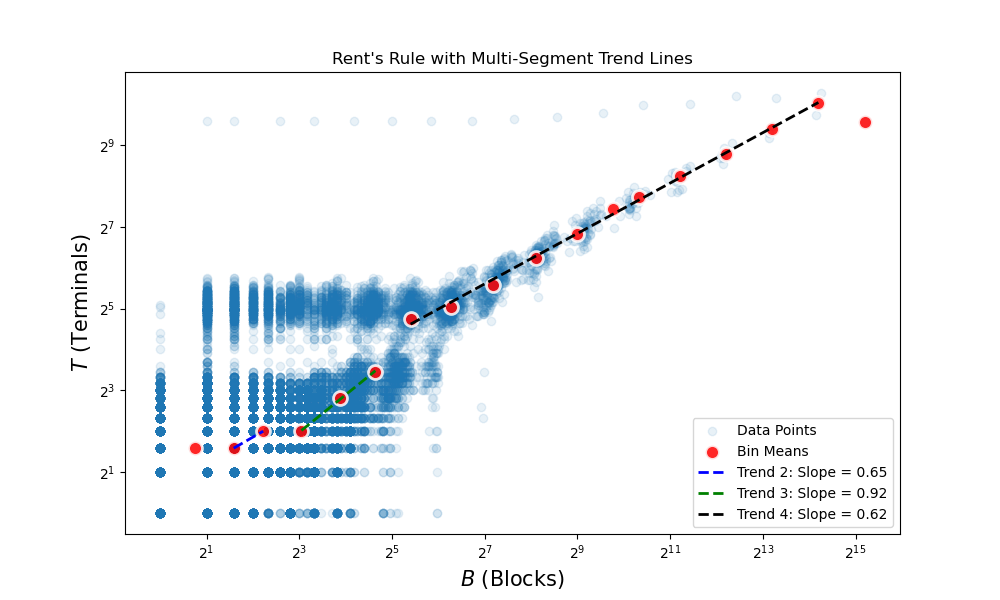
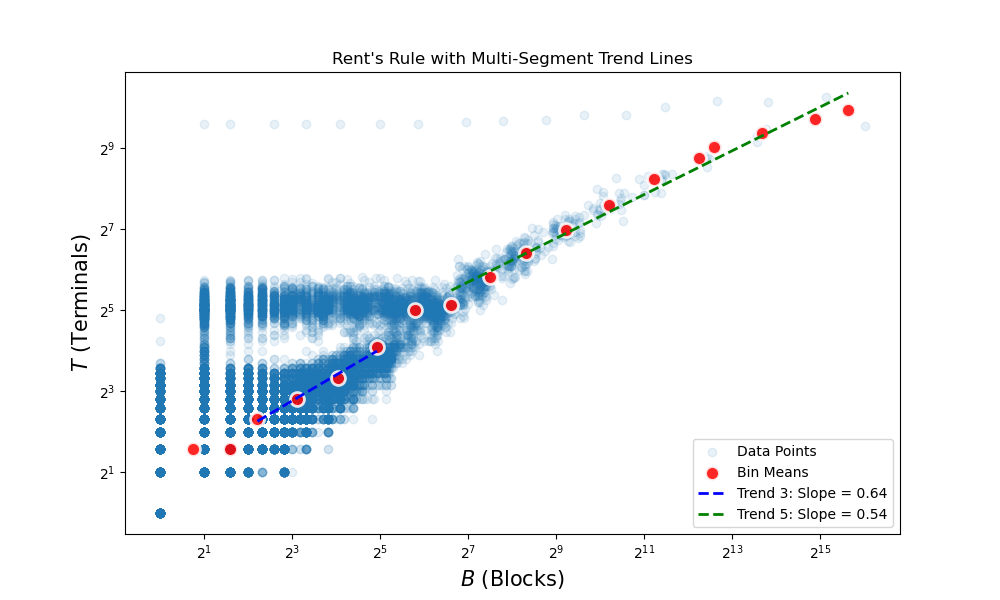
segment figure

diff --git a/src/rent2viz_seg.py b/src/rent2viz_seg.py
@@ -11,7 +11,7 @@ def detect_segments(data):
     mean_slope = np.mean(slopes)
 
     # Identify transition points: when slope deviates significantly from the mean
-    transition_indices = np.where(np.abs(slopes - mean_slope) > 0.5)[0] + 1  # +1 to get the right-side index
+    transition_indices = np.where(np.abs(slopes - mean_slope) > 0.35)[0] + 1  # +1 to get the right-side index
 
     # Ensure three segments: before, within, and after the high-slope region
     if len(transition_indices) < 2:
@@ -98,7 +98,7 @@ if __name__ == '__main__':
 
     rent_file_path = sys.argv[1]
     output_figures_folder = sys.argv[2]
-    output_filename = os.path.basename(rent_file_path) + "_viz.png"
+    output_filename = os.path.basename(rent_file_path) + "_viz_seg.png"
 
     visualize_rent(rent_file_path, output_filename, output_figures_folder)
     print(f"Visualization saved to {output_filename}")
